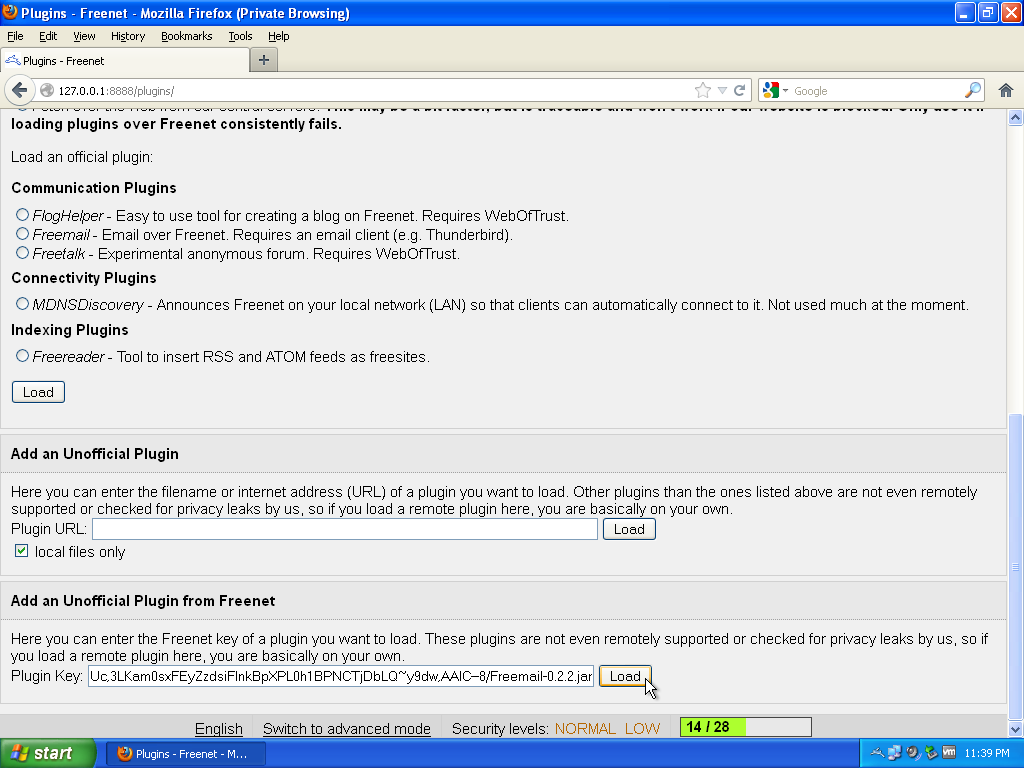
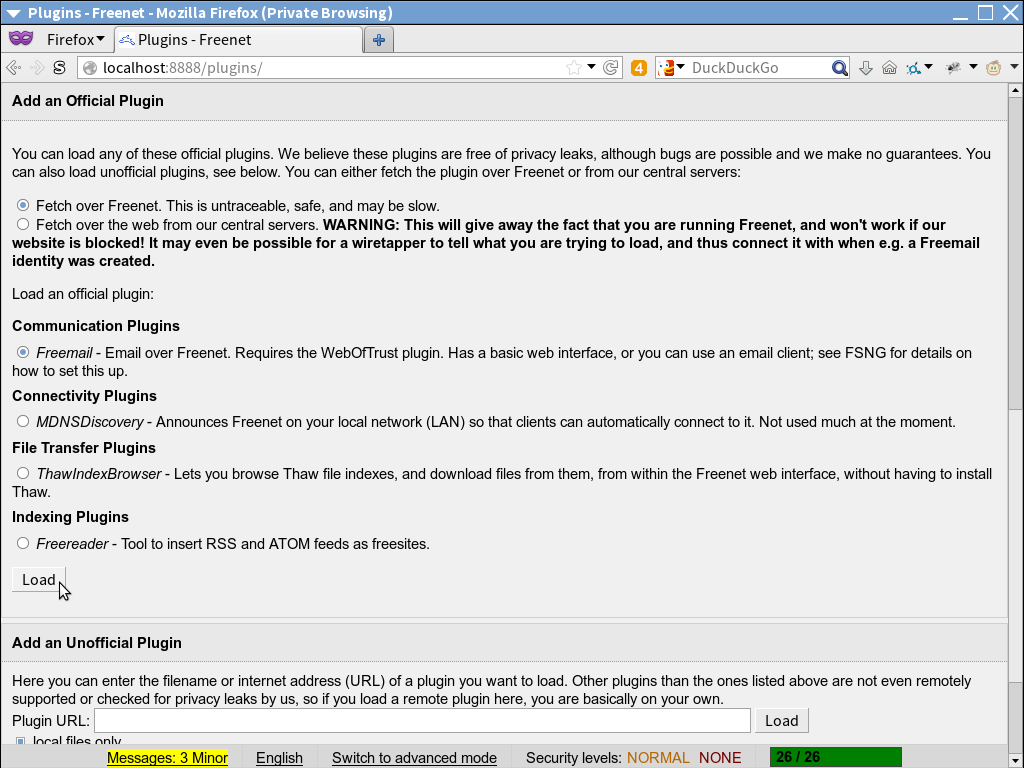
Update news page; add official Freemail v0.2.

diff --git a/freemail_en.html b/freemail_en.html
@@ -65,9 +65,8 @@
 		<li><p>Start by opening the Plugin configuration page.</p>
 			<p><a href="images/03/setup001.png"><img src="images/03/setup001.png" width="640" height="480" alt="Step 1" /></a></p>
 		</li>
-		<li><p>The version of Freemail used in this guide is newer than the official plugin included with Freenet 1419 so we need to install it as if it were an unofficial plugin.</p>
-			<p>Copy the following text into the Plugin Key field and click 'Load'.
-			<pre>CHK@mK3o5KCvCYFDjU9X0PrYkdktX0jppqvZ7Mhcsvt98P4,Zrceoi4rtPefS74ACnUfkomAXqNrwhOytz0N0PtAxKQ,AAMC--8/Freemail-0.2.2.1.jar</pre>
+		<li>
+			<p>Select the Freemail plugin and click 'Load'.</p>
 			<p><a href="images/03/setup002.png"><img src="images/03/setup002.png" width="640" height="480" alt="Step 2" /></a></p>
 		</li>
 		<li><p>When the plugin is loaded log in to Freemail using the new top-level menu.</p>

diff --git a/index_en.html b/index_en.html
@@ -70,6 +70,20 @@
 		<div class="innerbox">
 		<!--  hack necessary because putting padding and width: 100% on the same element confuses firefox & konqueror (at least)  -->
 		<div class="innerinnerbox">
+			<h3>Wednesday, 31st July, 2013</h3><p>Updated Sone version. Freemail v0.2 is now an official plugin.</p>
+			<ul>
+				<li>Freenet: 1450</li>
+				<li>WebOfTrust: 12</li>
+				<li>Freemail: 0.2.3.2</li>
+				<li>Sone: 0.8.6</li>
+				<li>FMS: 0.3.71</li>
+				<li>FLIP: 0.1.7</li>
+			</ul>
+		</div>
+		</div>
+		<div class="innerbox">
+		<!--  hack necessary because putting padding and width: 100% on the same element confuses firefox & konqueror (at least)  -->
+		<div class="innerinnerbox">
 			<h3>Saturday, 29th June, 2013</h3><p>Updated Sone version.</p>
 			<p>Current software versions:</p>
 			<ul>
